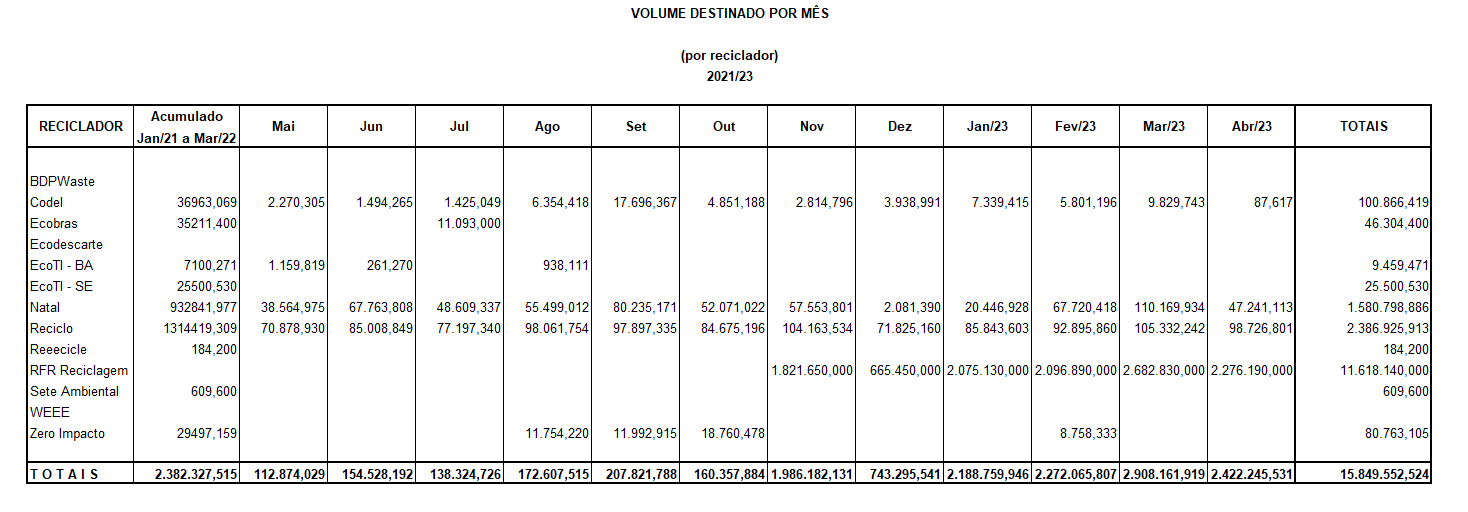
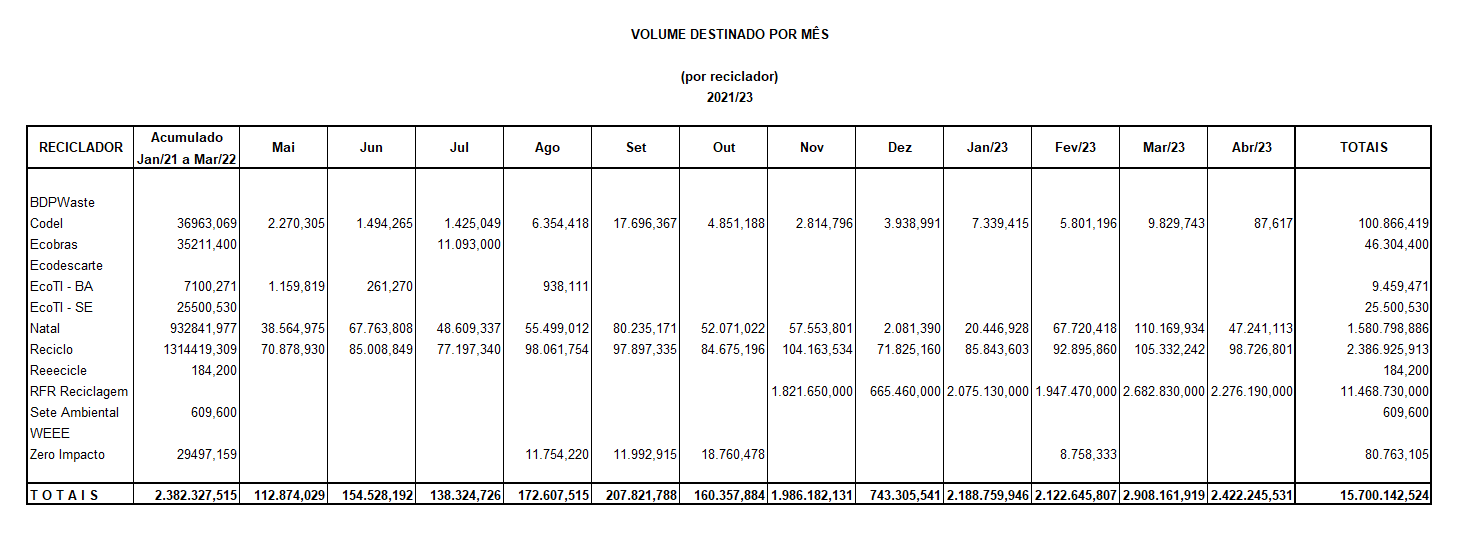
Acerto4 Abril23

diff --git a/frontend/src/components/DonutChart/index.tsx b/frontend/src/components/DonutChart/index.tsx
@@ -3,7 +3,7 @@ import Chart from 'react-apexcharts';
 const DonutChart = () => {
 
     const mockData = {
-        series: [0, 100.866, 46.304, 0, 9.459, 25.501, 1580.799, 2386.926, 0.184, 11618.140, 0.610, 0, 80.763],
+        series: [0, 100.866, 46.304, 0, 9.459, 25.501, 1580.799, 2386.926, 0.184, 11468.730, 0.610, 0, 80.763],
         labels: ['BDPWaste', 'Codel', 'Ecobras', 'Ecodescarte', 'EcoTI - BA', 'EcoTI - SE', 'Natal', 'Reciclo', 'Reeecicle', 'RFR Reciclagem' , 'Sete Ambiental', 'WEEE', 'Zero Impacto']
     }
     

diff --git a/frontend/src/components/BarChart/index.tsx b/frontend/src/components/BarChart/index.tsx
@@ -17,7 +17,7 @@ const BarChart = () => {
             series: [
             {
                 name: "Ton Reciclados",
-                data: [0, 100.866, 46.304, 0, 9.459, 25.501, 1580.799, 2386.926, 0.184, 11618.140, 0.610, 0, 80.763]                  
+                data: [0, 100.866, 46.304, 0, 9.459, 25.501, 1580.799, 2386.926, 0.184, 11468.730, 0.610, 0, 80.763]                  
             }
         ]
     };
